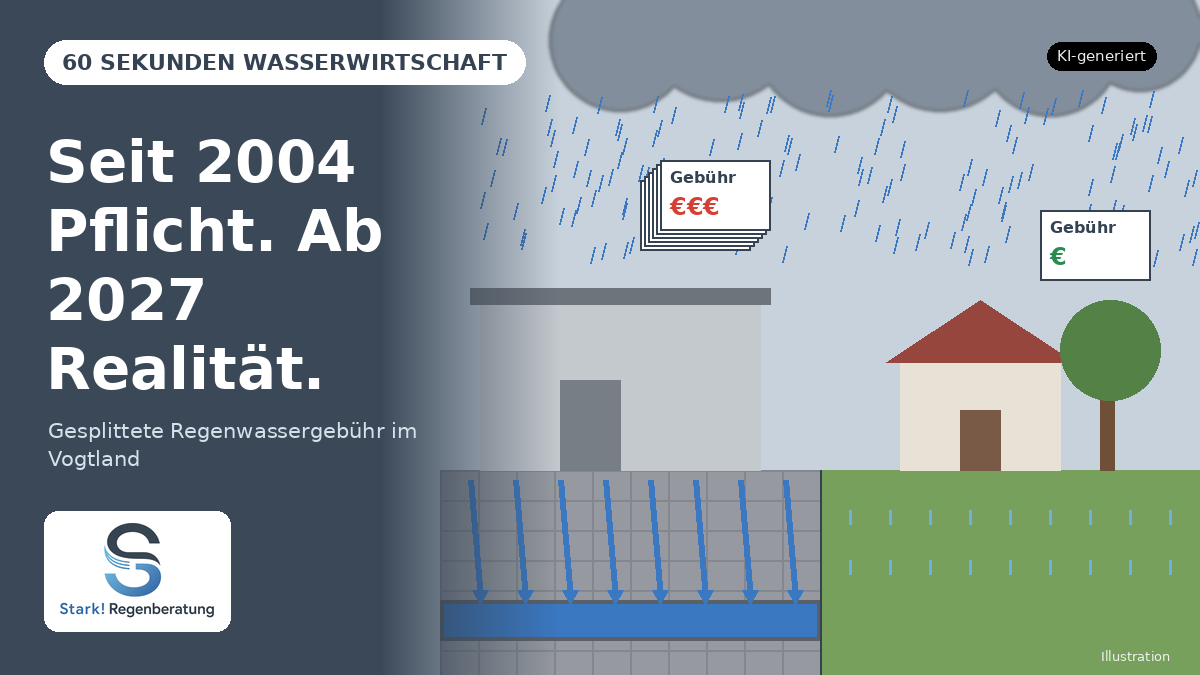
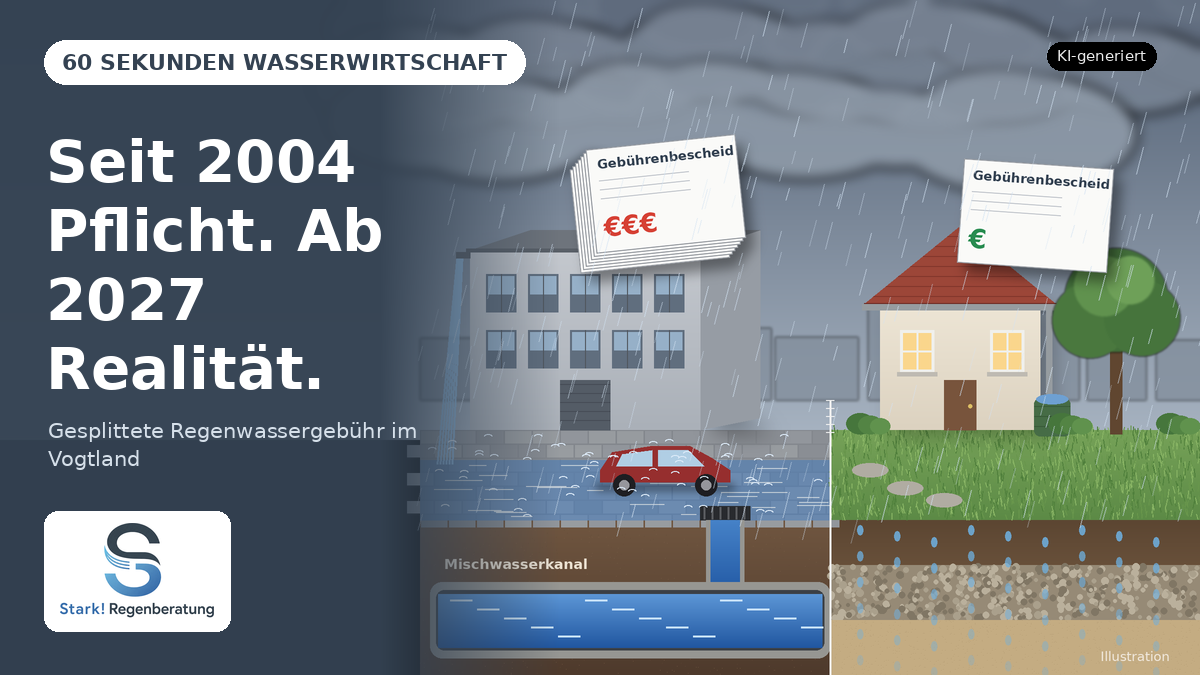
linkedin60: Bild 30.10.2026 im detaillierteren Stil
Claude-Session: https://claude.ai/code/session_01FhoSr4WPc5o5Wm3LeXVEvM

diff --git a/linkedin60/motive/2026-10-30.py b/linkedin60/motive/2026-10-30.py
@@ -1,8 +1,12 @@
-"""Motiv 30.10.2026: zwei Grundstücke im Regen. Links alles gepflastert, viel Wasser in den Kanal,
-dicke Gebührenrechnung. Rechts grüner Garten, das Wasser versickert, dünne Rechnung.
+"""Motiv 30.10.2026 (detaillierter Stil): zwei Grundstücke im Regen, mit Schnitt durch den Boden.
+
+Links: Flachdach und Pflaster, das Wasser läuft über die Fläche in den Kanal, dicker Gebührenstapel.
+Rechts: Ziegeldach, Regentonne, Rasen und Baum, das Wasser versickert in den Bodenschichten, ein Blatt.
+Gezeichnet in doppelter Auflösung und verkleinert, damit Kanten weich werden.
 
 Aufruf: python3 linkedin60/motive/2026-10-30.py
 """
+import math
 import random
 import sys
 from pathlib import Path
@@ -10,64 +14,278 @@ from pathlib import Path
 sys.path.insert(0, str(Path(__file__).resolve().parent.parent))
 from PIL import Image, ImageDraw, ImageFilter
 
-from bild import BLAU, DUNKEL, FONT_BOLD, FONT_REGULAR, GRAU, HELLBLAU, ROT, H, W, font, mit_rahmen
+from bild import BLAU, DUNKEL, FONT_BOLD, FONT_REGULAR, HELLBLAU, ROT, H, W, font, mit_rahmen
 
+S = 2  # Supersampling
+WW, HH = W * S, H * S
 rnd = random.Random(30)
-img = Image.new("RGBA", (W, H), (200, 210, 220, 255))
+
+
+def s(*v):
+    return tuple(int(x * S) for x in v)
+
+
+def mix(a, b, t):
+    return tuple(int(a[i] + (b[i] - a[i]) * t) for i in range(3))
+
+
+def verlauf(img, box, oben, unten):
+    x0, y0, x1, y1 = s(*box)
+    d = ImageDraw.Draw(img)
+    for y in range(y0, y1):
+        d.line((x0, y, x1, y), fill=mix(oben, unten, (y - y0) / max(1, y1 - y0)))
+
+
+def schatten(img, poly_or_box, blur=14, alpha=90, offset=(10, 10), ellipse=False):
+    layer = Image.new("RGBA", img.size)
+    ld = ImageDraw.Draw(layer)
+    if ellipse:
+        ld.ellipse(s(*poly_or_box), fill=(0, 0, 0, alpha))
+    else:
+        ld.polygon([s(x + offset[0], y + offset[1]) for x, y in poly_or_box], fill=(0, 0, 0, alpha))
+    img.alpha_composite(layer.filter(ImageFilter.GaussianBlur(blur * S)))
+
+
+img = Image.new("RGBA", (WW, HH), (0, 0, 0, 255))
+
+# Himmel: dämmrig, regnerisch
+verlauf(img, (0, 0, W, 440), (78, 92, 112), (168, 180, 194))
+
+# Wolkenschichten
+for schicht, (farbe, n, ybase) in enumerate((((96, 108, 126), 9, 20), ((118, 130, 146), 8, 70), ((140, 152, 166), 7, 120))):
+    layer = Image.new("RGBA", img.size)
+    ld = ImageDraw.Draw(layer)
+    for i in range(n):
+        cx = 420 + i * 100 + rnd.randint(-30, 30)
+        cy = ybase + rnd.randint(-15, 15)
+        r = rnd.randint(55, 95)
+        ld.ellipse(s(cx - r * 1.4, cy - r * 0.7, cx + r * 1.4, cy + r * 0.7), fill=farbe + (235,))
+        ld.ellipse(s(cx - r, cy - r * 0.75, cx + r * 0.6, cy - r * 0.1), fill=mix(farbe, (210, 216, 224), 0.25) + (120,))
+    img.alpha_composite(layer.filter(ImageFilter.GaussianBlur(6 * S)))
+
+# Horizont: entfernte Häuserreihe im Dunst
+layer = Image.new("RGBA", img.size)
+ld = ImageDraw.Draw(layer)
+x = 420
+while x < W:
+    w, h = rnd.randint(40, 90), rnd.randint(40, 110)
+    ld.rectangle(s(x, 400 - h, x + w, 400), fill=(130, 142, 156, 200))
+    if rnd.random() < 0.5:
+        ld.polygon([s(x - 4, 400 - h), s(x + w / 2, 400 - h - 30), s(x + w + 4, 400 - h)], fill=(122, 132, 146, 200))
+    x += w + rnd.randint(2, 10)
+img.alpha_composite(layer.filter(ImageFilter.GaussianBlur(1.5 * S)))
+
+d = ImageDraw.Draw(img)
+BODEN = 430   # Geländeoberkante
+SCHNITT = 520  # ab hier Bodenschnitt
+
+# ---------- Bodenschnitt ----------
+verlauf(img, (420, SCHNITT, W, H), (112, 86, 64), (78, 58, 44))
+# Schichten rechts: Mutterboden, Kies, Sand
+verlauf(img, (830, SCHNITT, W, SCHNITT + 45), (92, 70, 50), (104, 80, 58))
+d.rectangle(s(830, SCHNITT + 45, W, SCHNITT + 100), fill=(150, 138, 118))
+for _ in range(500):
+    gx, gy = rnd.randint(830, W), rnd.randint(SCHNITT + 47, SCHNITT + 98)
+    r = rnd.uniform(1.5, 4)
+    c = rnd.choice([(170, 160, 140), (128, 118, 100), (186, 176, 156)])
+    d.ellipse(s(gx - r, gy - r, gx + r, gy + r), fill=c)
+d.rectangle(s(830, SCHNITT + 100, W, H), fill=(196, 172, 130))
+for _ in range(900):
+    gx, gy = rnd.randint(830, W), rnd.randint(SCHNITT + 100, H)
+    d.point(s(gx, gy), fill=(176, 152, 112))
+# Erdkrümel links
+for _ in range(700):
+    gx, gy = rnd.randint(420, 830), rnd.randint(SCHNITT, H)
+    d.point(s(gx, gy), fill=rnd.choice([(96, 72, 54), (124, 96, 72)]))
+
+# Kanalrohr im Schnitt (links), randvoll
+rx0, ry0, rx1, ry1 = 430, 590, 830, 650
+d.rounded_rectangle(s(rx0, ry0 - 8, rx1, ry1 + 8), radius=12 * S, fill=(150, 150, 146))
+d.rounded_rectangle(s(rx0 + 6, ry0, rx1 - 6, ry1), radius=8 * S, fill=(60, 64, 70))
+verlauf(img, (rx0 + 8, ry0 + 4, rx1 - 8, ry1 - 2), (92, 150, 214), (32, 86, 160))
+d = ImageDraw.Draw(img)
+for i in range(14):  # Strömung
+    y = ry0 + 10 + (i % 5) * 9
+    x = rx0 + 20 + i * 27
+    d.line(s(x, y, x + 22, y), fill=(200, 226, 248), width=2 * S)
+d.text(s(rx0 + 14, ry0 - 34), "Mischwasserkanal", font=font(FONT_BOLD, 14 * S), fill=(236, 226, 210))
+
+# Versickerung rechts: Tropfenpfade durch die Schichten
+for i in range(9):
+    x = 860 + i * 37
+    for k in range(6):
+        y = SCHNITT + 10 + k * 26 + (i % 3) * 6
+        a = max(60, 220 - k * 30)
+        layer = Image.new("RGBA", img.size)
+        ImageDraw.Draw(layer).ellipse(s(x - 3, y - 5, x + 3, y + 5), fill=HELLBLAU + (a,))
+        img.alpha_composite(layer)
 d = ImageDraw.Draw(img)
 
-# Wolke und Regen über beiden Grundstücken
-wolke = Image.new("RGBA", (W, H))
-wd = ImageDraw.Draw(wolke)
-for cx, cy, r in ((620, 40, 70), (720, 20, 80), (830, 40, 75), (940, 30, 80), (1050, 45, 70), (1140, 30, 60)):
-    wd.ellipse((cx - r, cy - r, cx + r, cy + r), fill=(130, 142, 156, 255))
-img = Image.alpha_composite(img, wolke.filter(ImageFilter.GaussianBlur(2)))
+# ---------- Oberfläche links: Pflaster ----------
+d.rectangle(s(420, BODEN, 830, SCHNITT), fill=(132, 136, 142))
+for row, y in enumerate(range(BODEN, SCHNITT, 14)):
+    off = 0 if row % 2 == 0 else 14
+    for x in range(420 - off, 830, 28):
+        c = rnd.choice([(146, 150, 156), (138, 142, 148), (152, 156, 160)])
+        d.rectangle(s(x + 1, y + 1, x + 27, y + 13), fill=c)
+# Wasserfilm mit Spiegelung
+layer = Image.new("RGBA", img.size)
+ld = ImageDraw.Draw(layer)
+ld.rectangle(s(420, BODEN + 30, 830, SCHNITT), fill=BLAU + (120,))
+for i in range(30):
+    x = rnd.randint(430, 820)
+    y = rnd.randint(BODEN + 34, SCHNITT - 4)
+    ld.line(s(x, y, x + rnd.randint(14, 40), y), fill=(220, 236, 250, 160), width=S)
+img.alpha_composite(layer)
 d = ImageDraw.Draw(img)
-for _ in range(150):
-    x, y = rnd.randint(480, W), rnd.randint(90, 250)
-    d.line((x, y, x - 4, y + 16), fill=BLAU, width=2)
+# Gully mit Rost, Wasser stürzt nach unten zum Kanal
+gx0 = 700
+d.rectangle(s(gx0, SCHNITT - 14, gx0 + 50, SCHNITT), fill=(40, 42, 46))
+for k in range(6):
+    d.line(s(gx0 + 4 + k * 8, SCHNITT - 13, gx0 + 4 + k * 8, SCHNITT - 1), fill=(90, 92, 96), width=2 * S)
+verlauf(img, (gx0 + 10, SCHNITT, gx0 + 40, ry0 - 8), (70, 130, 200), (40, 96, 170))
+d = ImageDraw.Draw(img)
+d.rectangle(s(gx0 + 6, SCHNITT, gx0 + 10, ry0 - 8), fill=(150, 150, 146))
+d.rectangle(s(gx0 + 40, SCHNITT, gx0 + 44, ry0 - 8), fill=(150, 150, 146))
 
-boden = 470
-# Linkes Grundstück: grau, gepflastert, großes Flachdach
-d.rectangle((440, boden, 820, H), fill=(150, 154, 160))
-for x in range(440, 820, 38):
-    d.line((x, boden, x, H), fill=(132, 136, 142), width=2)
-for y in range(boden, H, 30):
-    d.line((440, y, 820, y), fill=(132, 136, 142), width=2)
-d.rectangle((480, 300, 760, boden), fill=GRAU)
-d.rectangle((470, 288, 770, 304), fill=(110, 116, 124))
-d.rectangle((560, 380, 620, boden), fill=(120, 126, 134))
-# Wasser schießt in den Kanal
-d.rectangle((440, 600, 820, 640), fill=(90, 96, 104))
-for i, x in enumerate(range(470, 800, 45)):
-    d.line((x, boden + 10, x + 10, 598), fill=BLAU, width=6)
-    d.polygon([(x + 2, 590), (x + 18, 590), (x + 10, 604)], fill=BLAU)
-d.rectangle((444, 604, 816, 636), fill=BLAU)
+# Flachdachgebäude mit Seitenwand
+front = [(470, 250), (700, 250), (700, BODEN), (470, BODEN)]
+seite = [(700, 250), (760, 230), (760, BODEN - 12), (700, BODEN)]
+schatten(img, front + [(760, BODEN)], blur=10, alpha=80, offset=(14, 4))
+d = ImageDraw.Draw(img)
+d.polygon([s(*p) for p in seite], fill=(150, 156, 164))
+verlauf(img, (470, 250, 700, BODEN), (196, 200, 206), (170, 176, 184))
+d = ImageDraw.Draw(img)
+d.polygon([s(470, 250), s(700, 250), s(760, 230), s(530, 230)], fill=(110, 116, 124))  # Dachfläche
+d.line(s(466, 250, 704, 250), fill=(90, 96, 104), width=4 * S)
+for row in range(2):  # Fensterband
+    for col in range(5):
+        x, y = 486 + col * 42, 274 + row * 56
+        d.rectangle(s(x, y, x + 30, y + 38), fill=(96, 110, 126))
+        d.rectangle(s(x + 2, y + 2, x + 28, y + 20), fill=(150, 176, 200))
+        d.line(s(x + 15, y, x + 15, y + 38), fill=(80, 86, 94), width=S)
+d.rectangle(s(560, 380, 610, BODEN), fill=(84, 92, 102))  # Tor
+for k in range(5):
+    d.line(s(560, 384 + k * 9, 610, 384 + k * 9), fill=(70, 76, 86), width=S)
+# Wasser schießt vom Flachdach über einen Speier
+layer = Image.new("RGBA", img.size)
+ld = ImageDraw.Draw(layer)
+for k in range(6):
+    ld.line(s(462 - k, 256, 452 - k * 3, BODEN + 34), fill=(150, 196, 236, 200), width=2 * S)
+img.alpha_composite(layer)
+d = ImageDraw.Draw(img)
+d.rectangle(s(456, 252, 470, 258), fill=(90, 96, 104))
+# Auto vor dem Gebäude
+car = [(600, 470), (612, 452), (650, 446), (690, 446), (712, 458), (730, 470), (730, 482), (600, 482)]
+schatten(img, [(596, 484), (734, 484), (734, 490), (596, 490)], blur=4, alpha=120, offset=(0, 0))
+d = ImageDraw.Draw(img)
+d.polygon([s(*p) for p in car], fill=(150, 46, 46))
+d.polygon([s(622, 454), s(652, 450), s(652, 466), s(616, 466)], fill=(176, 206, 228))
+d.polygon([s(658, 450), s(688, 450), s(704, 466), s(658, 466)], fill=(176, 206, 228))
+for wx in (624, 706):
+    d.ellipse(s(wx - 11, 474, wx + 11, 496), fill=(30, 30, 34))
+    d.ellipse(s(wx - 5, 480, wx + 5, 490), fill=(150, 150, 156))
 
-# Rechtes Grundstück: grün, kleines Haus, Baum, Wasser versickert
-d.rectangle((820, boden, W, H), fill=(118, 160, 92))
-d.rectangle((900, 360, 1060, boden), fill=(232, 226, 214))
-d.polygon([(886, 362), (980, 300), (1074, 362)], fill=(150, 70, 60))
-d.rectangle((960, 410, 1000, boden), fill=(120, 90, 70))
-d.rectangle((1100, 380, 1114, boden), fill=(110, 80, 54))
-d.ellipse((1060, 300, 1160, 400), fill=(84, 130, 70))
-for x in range(850, W, 40):  # Tropfen versickern
-    for y in (boden + 40, boden + 90):
-        d.line((x, y, x, y + 14), fill=HELLBLAU, width=3)
-d.line((820, boden, 820, H), fill=DUNKEL, width=2)
+# ---------- Oberfläche rechts: Rasen ----------
+verlauf(img, (830, BODEN, W, SCHNITT), (118, 162, 88), (92, 138, 70))
+d = ImageDraw.Draw(img)
+for _ in range(1400):
+    gx, gy = rnd.randint(830, W), rnd.randint(BODEN + 2, SCHNITT)
+    d.line(s(gx, gy, gx + rnd.uniform(-2, 2), gy - rnd.uniform(4, 9)), fill=rnd.choice([(80, 128, 60), (136, 180, 100), (104, 150, 76)]), width=S)
+# Trittsteine
+for i, (sx_, sy_) in enumerate(((870, 470), (905, 488), (944, 500))):
+    d.ellipse(s(sx_ - 18, sy_ - 7, sx_ + 18, sy_ + 7), fill=(176, 172, 162))
 
-# Gebührenbescheide
-def bescheid(x, y, dick, betrag):
-    for k in range(dick):
-        d.rectangle((x + k * 4, y - k * 4, x + 110 + k * 4, y + 70 - k * 4), fill="white", outline=DUNKEL, width=2)
-    tx, ty = x + (dick - 1) * 4, y - (dick - 1) * 4
-    d.text((tx + 10, ty + 8), "Gebühr", font=font(FONT_BOLD, 16), fill=DUNKEL)
-    d.text((tx + 10, ty + 32), betrag, font=font(FONT_BOLD, 24), fill=ROT if len(betrag) > 2 else (40, 140, 80))
+# Wohnhaus mit Ziegeldach
+hfront = [(880, 300), (1040, 300), (1040, BODEN), (880, BODEN)]
+schatten(img, hfront, blur=10, alpha=70, offset=(12, 4))
+d = ImageDraw.Draw(img)
+verlauf(img, (880, 300, 1040, BODEN), (238, 230, 214), (220, 210, 192))
+d = ImageDraw.Draw(img)
+dach = [(864, 304), (960, 226), (1056, 304)]
+d.polygon([s(*p) for p in dach], fill=(156, 70, 56))
+for k in range(1, 8):  # Ziegelreihen
+    y = 226 + k * 10
+    half = (y - 226) / 78 * 96
+    d.line(s(960 - half, y, 960 + half, y), fill=(130, 54, 44), width=S)
+d.line(s(864, 304, 1056, 304), fill=(110, 44, 36), width=3 * S)
+# Fenster mit warmem Licht, Sprossen, Fensterbank
+for fx in (900, 990):
+    d.rectangle(s(fx, 330, fx + 34, 372), fill=(250, 214, 140))
+    d.rectangle(s(fx, 330, fx + 34, 372), outline=(240, 240, 236), width=3 * S)
+    d.line(s(fx + 17, 330, fx + 17, 372), fill=(240, 240, 236), width=2 * S)
+    d.line(s(fx, 351, fx + 34, 351), fill=(240, 240, 236), width=2 * S)
+    d.rectangle(s(fx - 3, 372, fx + 37, 376), fill=(190, 186, 178))
+d.rectangle(s(944, 380, 976, BODEN), fill=(120, 84, 60))
+d.ellipse(s(968, 404, 972, 408), fill=(220, 190, 100))
+# Dachrinne, Fallrohr, Regentonne
+d.rectangle(s(862, 304, 1058, 310), fill=(150, 156, 160))
+d.rectangle(s(1046, 310, 1052, 400), fill=(150, 156, 160))
+d.rounded_rectangle(s(1034, 398, 1070, BODEN + 6), radius=6 * S, fill=(70, 108, 70))
+for k in range(3):
+    d.line(s(1034, 406 + k * 10, 1070, 406 + k * 10), fill=(56, 90, 56), width=S)
+d.ellipse(s(1036, 394, 1068, 404), fill=(110, 160, 210))
 
-bescheid(640, 180, 6, "€€€")
-bescheid(1040, 210, 1, "€")
+# Baum mit Lichtkante
+d.rectangle(s(1110, 330, 1122, BODEN + 4), fill=(96, 70, 48))
+layer = Image.new("RGBA", img.size)
+ld = ImageDraw.Draw(layer)
+for cx, cy, r, c in ((1116, 300, 52, (66, 110, 58)), (1090, 320, 38, (74, 120, 62)), (1142, 318, 38, (70, 116, 60)),
+                     (1104, 286, 30, (96, 146, 78)), (1130, 280, 24, (110, 160, 88))):
+    ld.ellipse(s(cx - r, cy - r, cx + r, cy + r), fill=c + (255,))
+img.alpha_composite(layer.filter(ImageFilter.GaussianBlur(1 * S)))
+d = ImageDraw.Draw(img)
+# Sträucher
+for bx in (860, 1062, 1170):
+    for k in range(3):
+        r = 14 - k * 2
+        d.ellipse(s(bx + k * 10 - r, BODEN - r * 1.2, bx + k * 10 + r, BODEN + 4), fill=mix((70, 118, 60), (110, 160, 86), k / 3))
 
-d.text((W - 30, H - 14), "Illustration", font=font(FONT_REGULAR, 13), fill=(240, 240, 240), anchor="rs")
+# Grundstücksgrenze
+d.line(s(830, BODEN - 30, 830, H), fill=(240, 240, 240), width=2 * S)
+for y in range(BODEN - 30, BODEN + 4, 8):
+    d.line(s(826, y, 834, y), fill=(240, 240, 240), width=S)
 
+# ---------- Gebührenbescheide ----------
+def bescheid(x, y, anzahl, zeichen, farbe, winkel):
+    blatt_w, blatt_h = 150, 104
+    stapel = Image.new("RGBA", s(blatt_w + 40, blatt_h + 40))
+    sd = ImageDraw.Draw(stapel)
+    for k in range(anzahl):
+        ox, oy = 6 + k * 3, 30 - k * 3
+        sd.rectangle(s(ox, oy, ox + blatt_w, oy + blatt_h), fill=(250, 250, 248), outline=(150, 154, 160), width=S)
+    ox, oy = 6 + (anzahl - 1) * 3, 30 - (anzahl - 1) * 3
+    sd.text(s(ox + 10, oy + 8), "Gebührenbescheid", font=font(FONT_BOLD, 13 * S), fill=DUNKEL)
+    for k in range(3):
+        sd.line(s(ox + 10, oy + 32 + k * 9, ox + blatt_w - 50, oy + 32 + k * 9), fill=(196, 200, 206), width=S)
+    sd.text(s(ox + 10, oy + 64), zeichen, font=font(FONT_BOLD, 26 * S), fill=farbe)
+    stapel = stapel.rotate(winkel, expand=True, resample=Image.BICUBIC)
+    sh = Image.new("RGBA", img.size)
+    alpha = stapel.split()[3].point(lambda a: int(a * 0.4))
+    sh.paste((0, 0, 0, 255), s(x + 8, y + 10), alpha)
+    img.alpha_composite(sh.filter(ImageFilter.GaussianBlur(6 * S)))
+    img.alpha_composite(stapel, s(x, y))
+
+
+bescheid(560, 120, 7, "€€€", ROT, 6)
+bescheid(950, 128, 1, "€", (40, 140, 80), -4)
+
+# ---------- Regen im Vordergrund ----------
+layer = Image.new("RGBA", img.size)
+ld = ImageDraw.Draw(layer)
+for _ in range(420):
+    x, y = rnd.randint(420, W + 40), rnd.randint(0, SCHNITT)
+    l = rnd.uniform(12, 28)
+    ld.line(s(x, y, x - l * 0.25, y + l), fill=(210, 226, 242, rnd.randint(70, 160)), width=S)
+img.alpha_composite(layer)
+# Spritzer auf dem Pflaster
+d = ImageDraw.Draw(img)
+for _ in range(60):
+    x, y = rnd.randint(430, 820), rnd.randint(BODEN + 6, SCHNITT - 4)
+    d.arc(s(x - 4, y - 2, x + 4, y + 2), 180, 360, fill=(220, 234, 248), width=S)
+
+d.text(s(W - 30, H - 14), "Illustration", font=font(FONT_REGULAR, 13 * S), fill=(240, 232, 220), anchor="rs")
+
+img = img.resize((W, H), Image.LANCZOS)
 mit_rahmen(img, "2026-10-30", "Seit 2004 Pflicht. Ab 2027 Realität.",
            "Gesplittete Regenwassergebühr im Vogtland")
